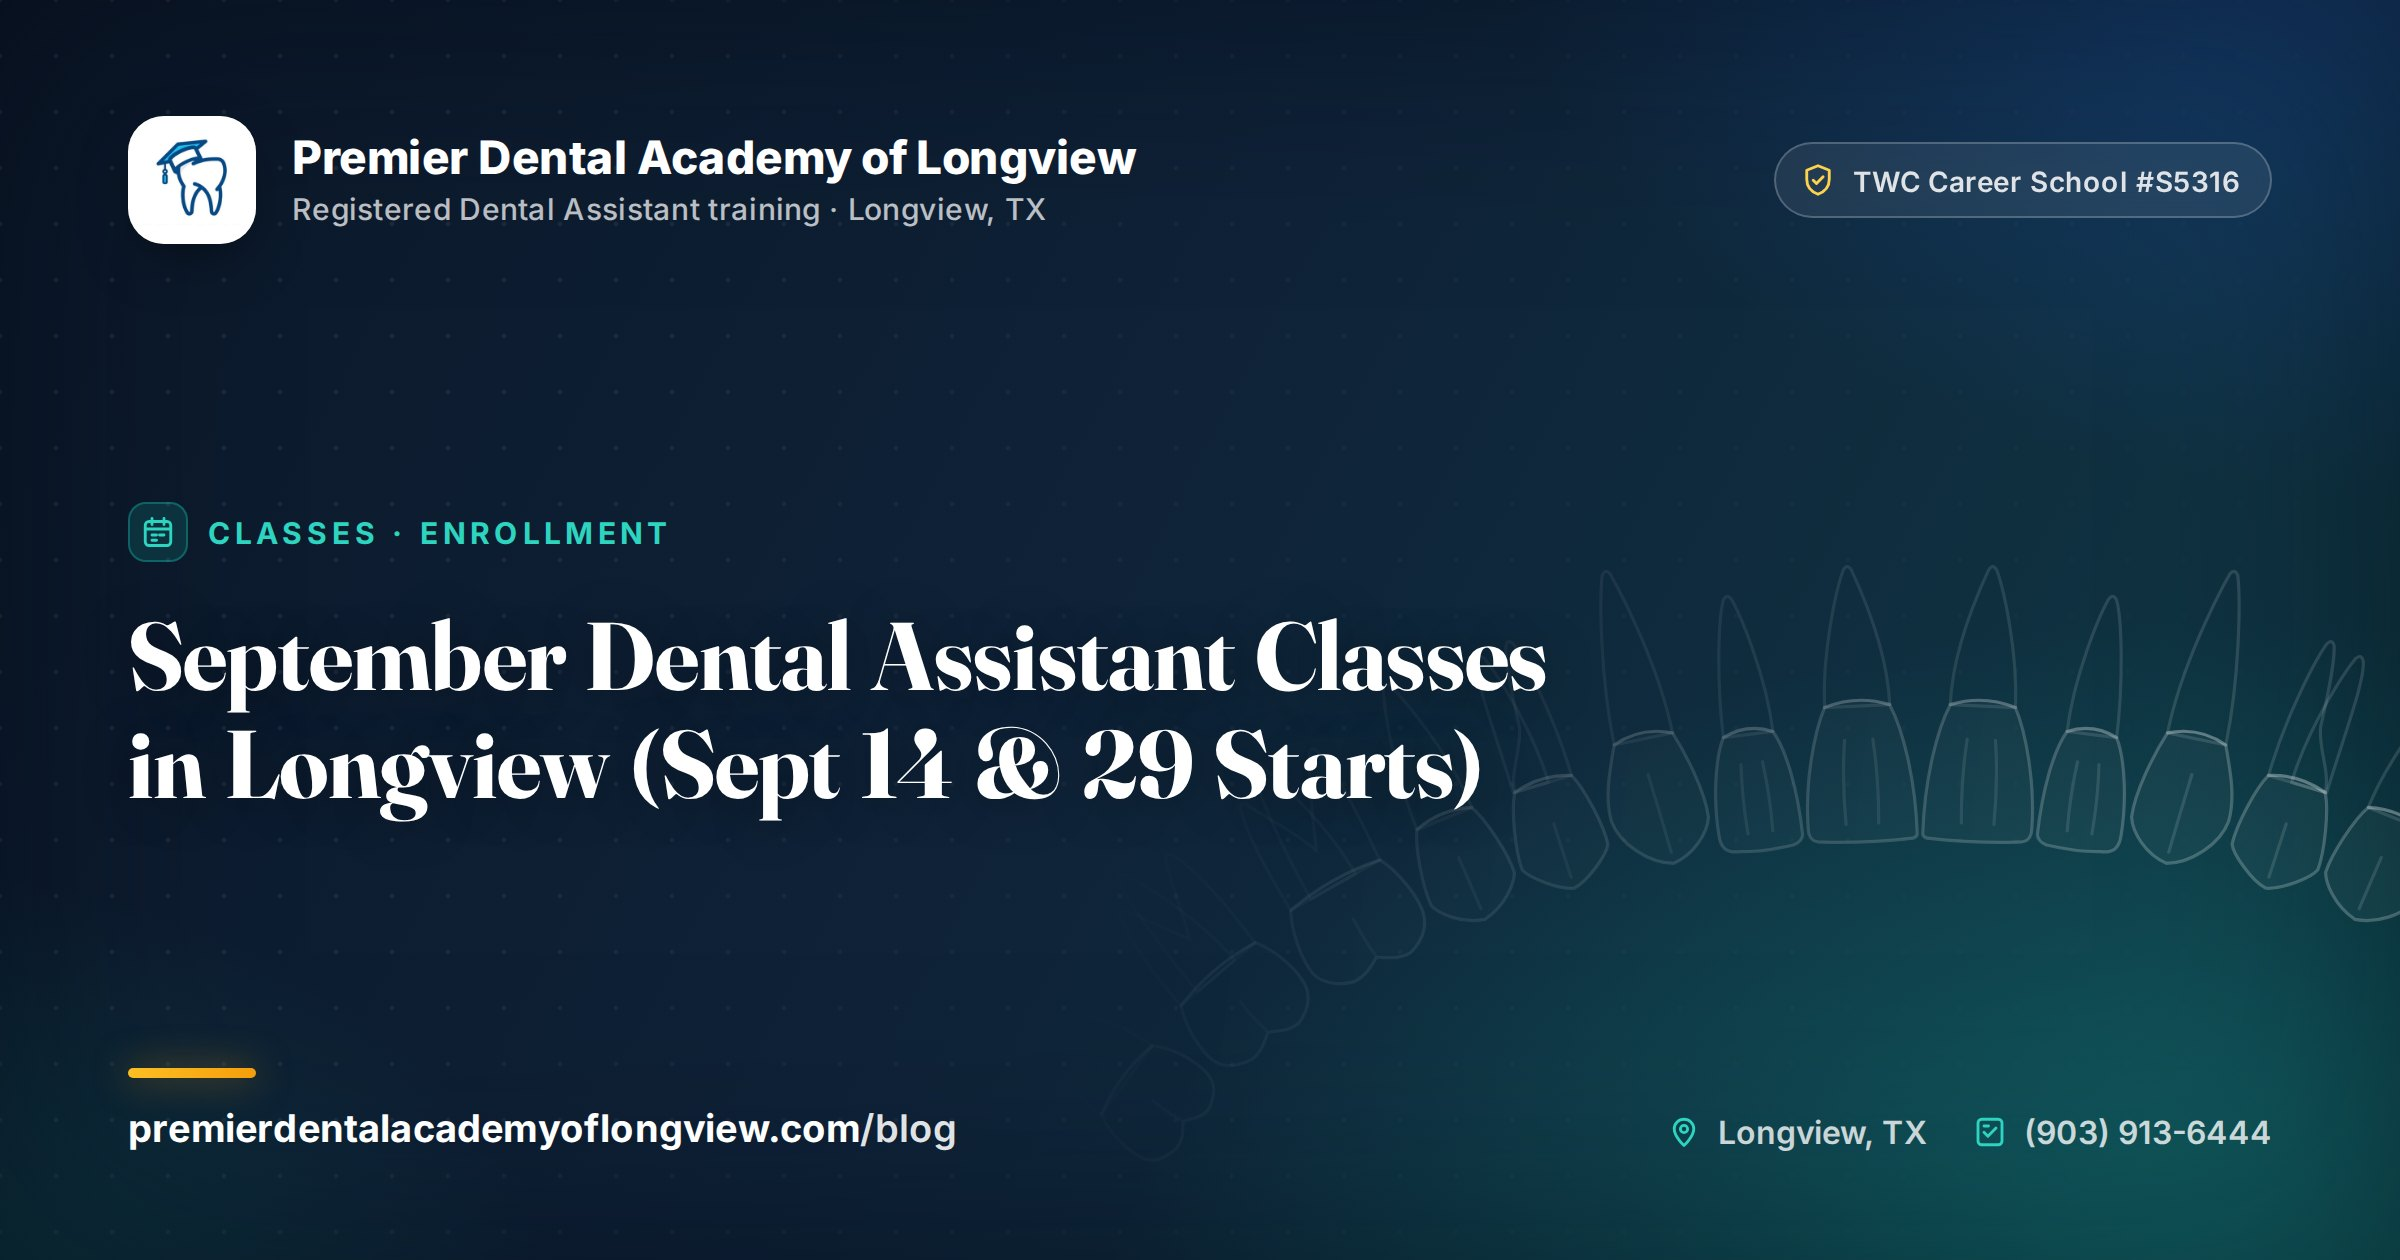
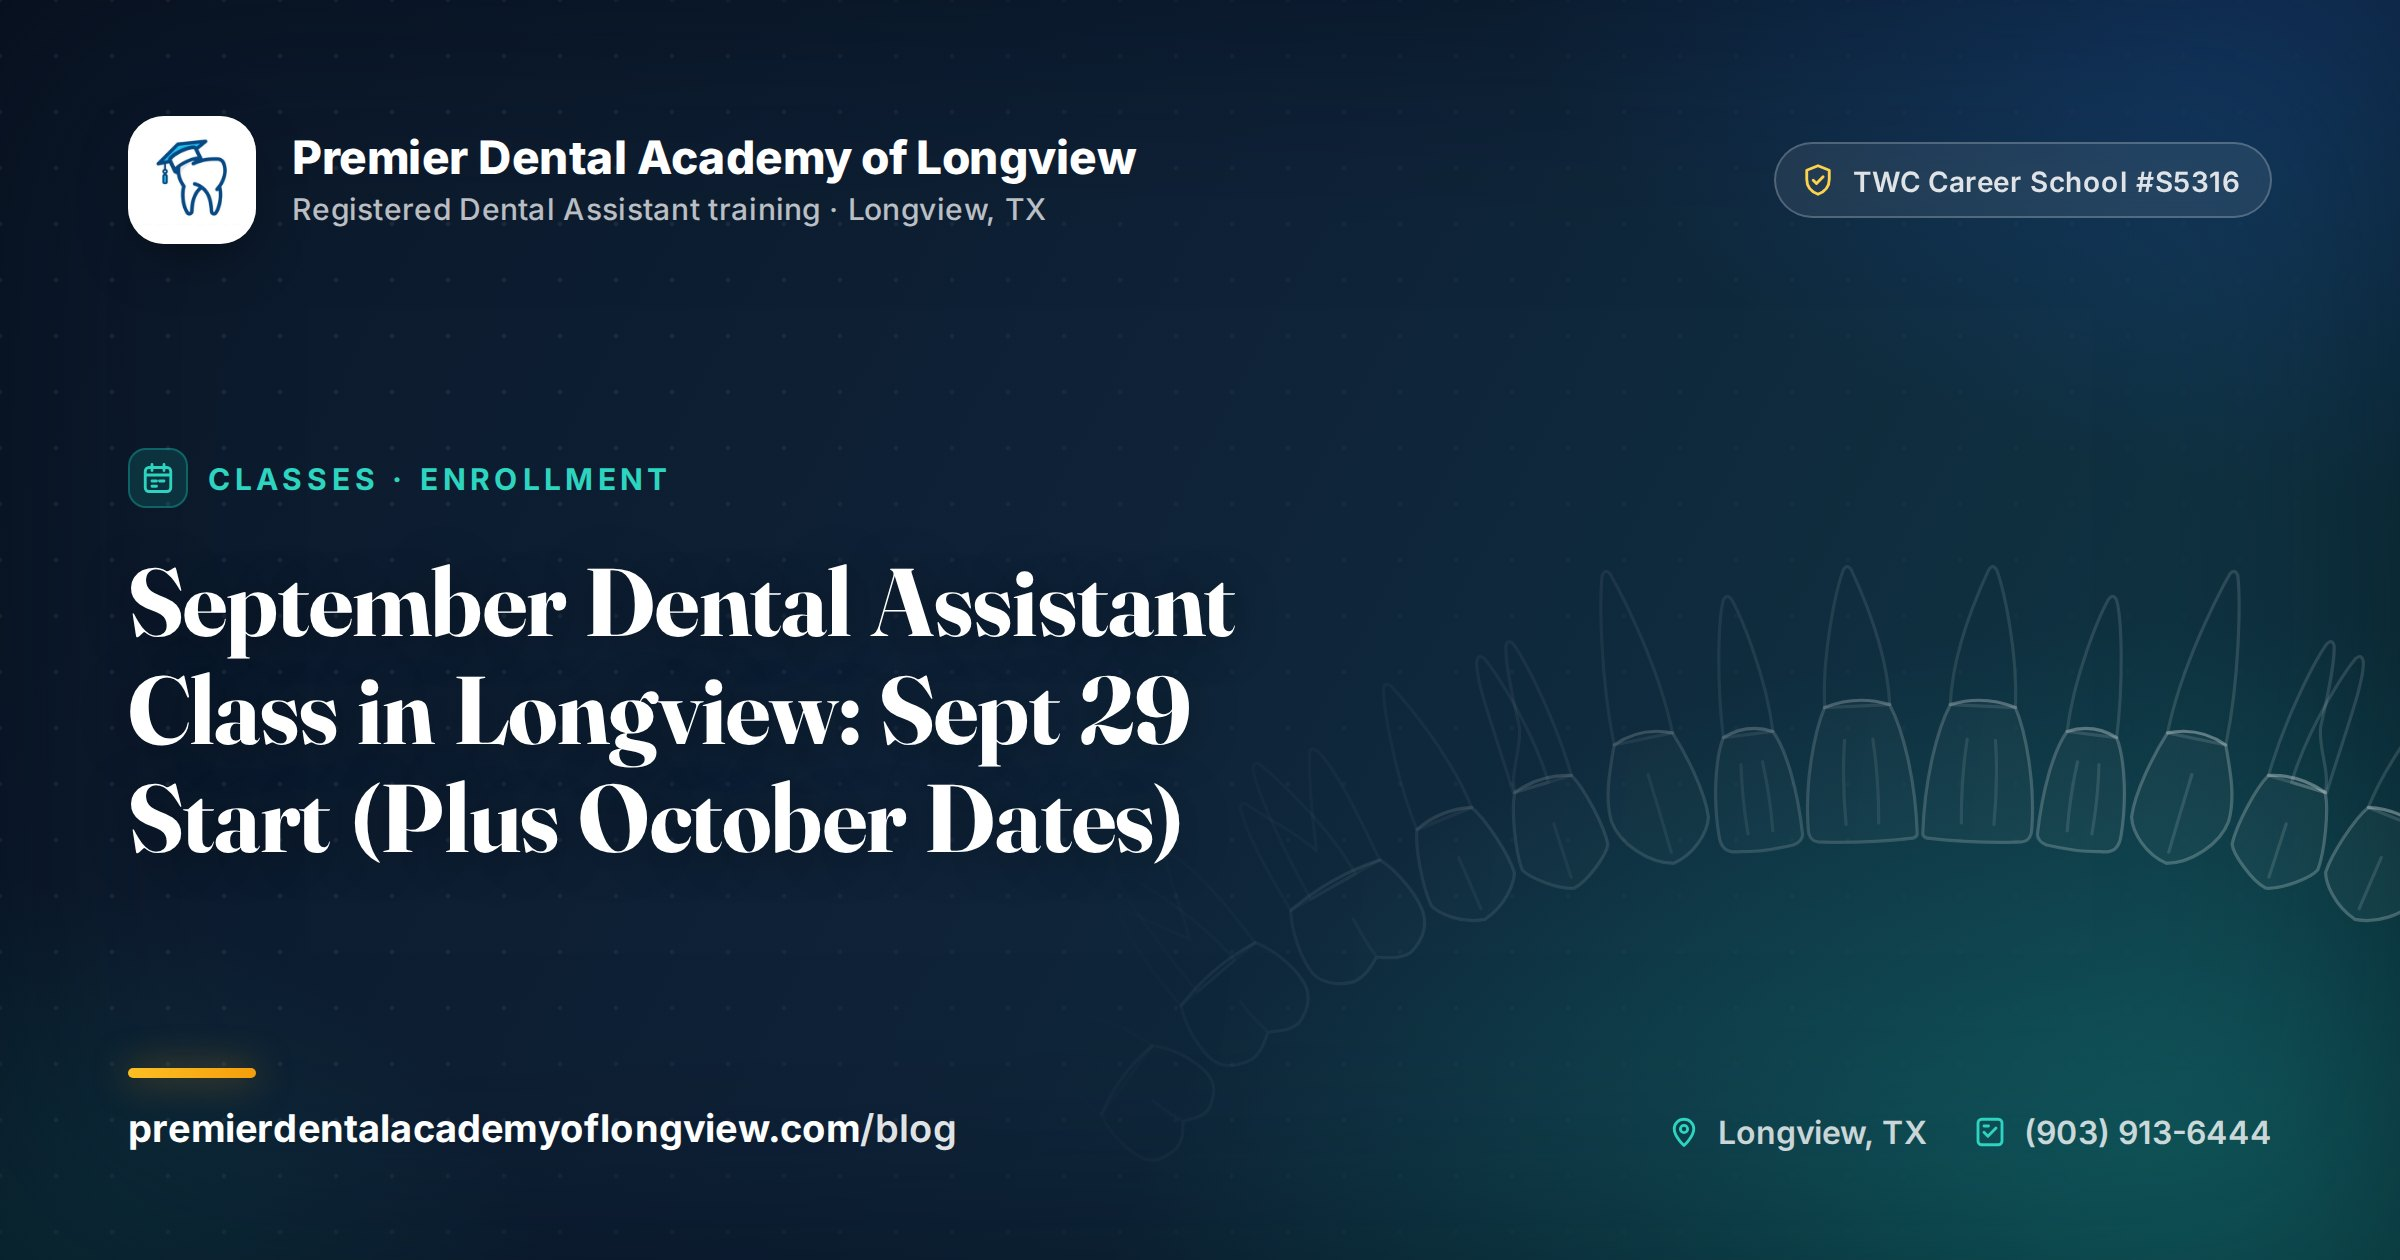
Blog: retitle the September class post around the open Sept 29 start
The September 14 class is in session, so the post, its share metadata,
blog card and social card now lead with the still-open Tuesday, Sept 29
start and the October 5 / October 20 dates behind it. Same URL.

Claude-Session: https://claude.ai/code/session_01UKE28ReqaFHbT8LggmahZb

Changed region(s): [[0.0312, 0.3405, 0.6562, 0.681]]

diff --git a/blog/september-dental-assistant-classes-longview.html b/blog/september-dental-assistant-classes-longview.html
@@ -3,8 +3,8 @@
 <head>
   <meta charset="utf-8" />
   <meta name="viewport" content="width=device-width,initial-scale=1" />
-  <title>September Dental Assistant Classes in Longview (Sept 14 &amp; 29 Starts)</title>
-  <meta name="description" content="Two daytime dental assistant classes start in Longview this September — Sept 14 and Sept 29. See what's included, what it costs, and how to hold one of just 8 seats." />
+  <title>September Dental Assistant Class in Longview: Sept 29 Start (Plus October Dates)</title>
+  <meta name="description" content="The September 14 class is underway. One September start is still open — Tuesday, Sept 29 — with October 5 and October 20 right behind it. See what's included, what it costs, and how to hold one of just 8 seats." />
   <link rel="icon" type="image/png" sizes="32x32" href="/assets/favicon.png" />
   <link rel="icon" type="image/png" sizes="48x48" href="/assets/favicon-48.png" />
   <link rel="apple-touch-icon" href="/assets/apple-touch-icon.png" />
@@ -31,17 +31,17 @@
   <meta property="og:type" content="article" />
   <meta property="og:site_name" content="Premier Dental Academy of Longview" />
   <meta property="og:url" content="https://www.premierdentalacademyoflongview.com/blog/september-dental-assistant-classes-longview" />
-  <meta property="og:title" content="September Dental Assistant Classes in Longview (Sept 14 &amp; 29 Starts)" />
-  <meta property="og:description" content="Two daytime starts this September — Sept 14 and Sept 29. What's included, what it costs, and how to hold a seat." />
+  <meta property="og:title" content="September Dental Assistant Class in Longview: Sept 29 Start (Plus October Dates)" />
+  <meta property="og:description" content="One September start is still open — Tuesday, Sept 29 — with October 5 and October 20 right behind it. What's included, what it costs, and how to hold a seat." />
   <meta property="og:image" content="https://www.premierdentalacademyoflongview.com/assets/og/blog-september-dental-assistant-classes-longview.jpg" />
   <meta property="og:image:width" content="2400" />
   <meta property="og:image:height" content="1260" />
   <meta property="og:image:type" content="image/jpeg" />
   <meta name="twitter:card" content="summary_large_image" />
   <meta name="twitter:title" content="September Dental Assistant Classes in Longview" />
-  <meta name="twitter:description" content="Two daytime starts this September — Sept 14 and Sept 29. Just 8 seats each." />
+  <meta name="twitter:description" content="One September start still open — Sept 29 — with Oct 5 and Oct 20 right behind it. Just 8 seats each." />
   <meta name="twitter:image" content="https://www.premierdentalacademyoflongview.com/assets/og/blog-september-dental-assistant-classes-longview.jpg" />
-  <script type="application/ld+json">{"@context":"https://schema.org","@type":"BlogPosting","headline":"September Dental Assistant Classes in Longview (Sept 14 & 29 Starts)","description":"Two daytime starts this September — Sept 14 and Sept 29. What's included, what it costs, and how to hold a seat.","datePublished":"2026-07-12","dateModified":"2026-07-12","author":{"@type":"Organization","name":"Premier Dental Academy of Longview","url":"https://www.premierdentalacademyoflongview.com"},"publisher":{"@type":"Organization","name":"Premier Dental Academy of Longview","logo":{"@type":"ImageObject","url":"https://www.premierdentalacademyoflongview.com/assets/logo-mark.png"}},"image":"https://www.premierdentalacademyoflongview.com/assets/og/blog-september-dental-assistant-classes-longview.jpg","mainEntityOfPage":"https://www.premierdentalacademyoflongview.com/blog/september-dental-assistant-classes-longview"}</script>
+  <script type="application/ld+json">{"@context":"https://schema.org","@type":"BlogPosting","headline":"September Dental Assistant Class in Longview: Sept 29 Start (Plus October Dates)","description":"One September start is still open — Tuesday, Sept 29 — with October 5 and October 20 right behind it. What's included, what it costs, and how to hold a seat.","datePublished":"2026-07-12","dateModified":"2026-07-12","author":{"@type":"Organization","name":"Premier Dental Academy of Longview","url":"https://www.premierdentalacademyoflongview.com"},"publisher":{"@type":"Organization","name":"Premier Dental Academy of Longview","logo":{"@type":"ImageObject","url":"https://www.premierdentalacademyoflongview.com/assets/logo-mark.png"}},"image":"https://www.premierdentalacademyoflongview.com/assets/og/blog-september-dental-assistant-classes-longview.jpg","mainEntityOfPage":"https://www.premierdentalacademyoflongview.com/blog/september-dental-assistant-classes-longview"}</script>
 </head>
 <body class="bg-white">
 
@@ -63,19 +63,19 @@
 
 <main class="max-w-3xl mx-auto px-4 sm:px-6 py-10 sm:py-14">
   <p class="text-xs uppercase tracking-widest text-teal-700 font-semibold">Classes · Enrollment</p>
-  <h1 class="display text-3xl sm:text-4xl font-bold mt-2 leading-tight">September dental assistant classes in Longview: Sept 14 &amp; 29 starts</h1>
-  <p class="text-slate-500 mt-3 text-lg">If summer got away from you, September is a fresh, clean place to begin. We have two daytime dental assistant cohorts starting in Longview this fall — one on <strong>September 14</strong> and one on <strong>September 29</strong> — and you can train on campus or fully online. Here's exactly what to expect and how to hold your seat.</p>
+  <h1 class="display text-3xl sm:text-4xl font-bold mt-2 leading-tight">September dental assistant class in Longview: Sept 29 start (plus October dates)</h1>
+  <p class="text-slate-500 mt-3 text-lg">If summer got away from you, September is a fresh, clean place to begin. The September 14 class is now in session, but one September start is still open — <strong>Tuesday, September 29</strong> — with <strong>October 5</strong> (Mon/Wed/Fri) and <strong>October 20</strong> (Tue/Thu) right behind it, and you can train on campus or fully online. Here's exactly what to expect and how to hold your seat.</p>
 
   <div class="grid grid-cols-3 gap-3 mt-8 not-prose">
-    <div class="bg-teal-50 border border-teal-100 rounded-xl p-4 text-center"><div class="display text-2xl font-bold text-teal-700">2</div><div class="text-xs text-slate-600 mt-1">September starts (Sept 14 &amp; 29)</div></div>
+    <div class="bg-teal-50 border border-teal-100 rounded-xl p-4 text-center"><div class="display text-2xl font-bold text-teal-700">3</div><div class="text-xs text-slate-600 mt-1">open starts (Sept 29, Oct 5, Oct 20)</div></div>
     <div class="bg-amber-50 border border-amber-100 rounded-xl p-4 text-center"><div class="display text-2xl font-bold text-amber-600">8</div><div class="text-xs text-slate-600 mt-1">seats per class — that's the cap</div></div>
     <div class="bg-cyan-50 border border-cyan-100 rounded-xl p-4 text-center"><div class="display text-2xl font-bold text-cyan-700">~12</div><div class="text-xs text-slate-600 mt-1">weeks from day one to finished</div></div>
   </div>
 
   <div class="prose max-w-none mt-8">
     <h2 class="display text-2xl font-bold mt-8">Two September starts, two chances to begin</h2>
-    <p>You don't have to wait for a new year to change your life. Our fall calendar has back-to-back openings: a cohort that starts <strong>Monday, September 14</strong> and a second one that starts <strong>Tuesday, September 29</strong>. Pick whichever lines up with your notice period at a current job, your childcare, or just the date that feels right. Both cover the same curriculum, the same hands-on training, and finish in about twelve weeks.</p>
-    <p>Two starts a few weeks apart also means flexibility. If September 14 sneaks up too fast, September 29 gives you a little more runway to save, arrange a schedule, or start the funding paperwork — without pushing you all the way to November.</p>
+    <p>You don't have to wait for a new year to change your life. Our fall calendar has back-to-back openings: a cohort that starts <strong>Tuesday, September 29</strong> and a second one that starts <strong>Monday, October 5</strong>. Pick whichever lines up with your notice period at a current job, your childcare, or just the date that feels right. Both cover the same curriculum, the same hands-on training, and finish in about twelve weeks.</p>
+    <p>Two starts a few weeks apart also means flexibility. If September 29 sneaks up too fast, October 5 or October 20 gives you a little more runway to save, arrange a schedule, or start the funding paperwork — without pushing you all the way to November.</p>
 
     <h2 class="display text-2xl font-bold mt-10">On campus in Longview, or online from home</h2>
     <p>Both September cohorts run in two formats. <strong>In-person</strong> meets at our Longview campus at 2800 Gilmer Rd, Suite 106 — live, hands-on training with the instruments and workflows you'll use in a real operatory. <strong>Online</strong> covers the same curriculum from home, at a pace that fits around work and family. A lot of students start online to test the waters and then move to in-person; if you do, your online tuition transfers as full credit.</p>
@@ -100,7 +100,7 @@
     <p>Whichever start you choose, tuition covers the whole path — not a stripped-down "intro" with everything important sold separately. You get live instruction on the Longview campus (or the same curriculum fully online), full access to our Practice Pro and ChairSide trainers, infection-control and radiology training, a PDA Certificate of Completion when you finish, and job-placement help with East Texas offices when you're ready to interview. No surprise fees to "unlock" the parts that actually matter, and everything you practice is built to mirror a real operatory.</p>
 
     <h2 class="display text-2xl font-bold mt-10">Get ready for September (tap to check off)</h2>
-    <p>You don't need to do all of this today. But if you're aiming at September 14 or 29, here's the short list that gets you to day one without a scramble:</p>
+    <p>You don't need to do all of this today. But if you're aiming at September 29 or an October start, here's the short list that gets you to day one without a scramble:</p>
     <div class="not-prose">
       <div id="prog-wrap" class="mb-3">
         <div class="flex justify-between text-xs text-slate-500 mb-1"><span>Your progress</span><span id="prog-txt">0 of 6</span></div>

diff --git a/blog.html b/blog.html
@@ -1897,8 +1897,8 @@
         <div class="h-28 bg-gradient-to-br from-emerald-100 to-teal-100 flex items-center justify-center text-5xl">📅</div>
         <div class="p-6 flex flex-col flex-1">
           <span class="text-xs uppercase tracking-widest text-teal-700 font-semibold">Classes · Enrollment</span>
-          <h3 class="display text-lg font-bold mt-2">September Dental Assistant Classes in Longview (Sept 14 &amp; 29 Starts)</h3>
-          <p class="text-slate-600 text-sm mt-2 leading-relaxed flex-1">Two daytime starts this fall — September 14 and 29, in Longview or online. What's included, what it costs, and a tap-to-check-off seat checklist.</p>
+          <h3 class="display text-lg font-bold mt-2">September Dental Assistant Class in Longview: Sept 29 Start (Plus October Dates)</h3>
+          <p class="text-slate-600 text-sm mt-2 leading-relaxed flex-1">One September start still open — Sept 29 — with October 5 and 20 right behind it, in Longview or online. What's included, what it costs, and a tap-to-check-off seat checklist.</p>
           <div class="mt-4 flex items-center justify-between"><span class="text-teal-700 font-semibold text-sm">Read →</span><span class="text-xs text-slate-400">Jul 12, 2026</span></div>
         </div>
       </a>

diff --git a/CHANGELOG.md b/CHANGELOG.md
@@ -1,4 +1,5 @@
 # Changelog — one line per push (newest first)
+- 2026-09-17 · September class post retitled around the open date: "September Dental Assistant Class in Longview: Sept 29 Start (Plus October Dates)" (same URL). Intro, stat tile, description, share metadata and blog card now say the Sept 14 class is in session and Sept 29 / Oct 5 / Oct 20 are open; card re-rendered.
 - 2026-09-17 · Stale class dates refreshed: the September 14 class has started, so 96 blog posts + the homepage fallback still calling it an upcoming start now list the next confirmed dates (Sept 29 T/Th, Oct 5 MWF, Oct 20 T/Th, Nov 9 MWF, Nov 17 T/Th, per site-facts/cohorts). Tour-CTA date grids rebuilt in date order; prose swapped date-for-date with no new claims; the dated August/September class-announcement posts and the expired Labor Day copy left as historical. check:dates green again; npm test clean.
 - 2026-09-17 · Tool/landing-page share cards moved onto the same generator (`npm run og`, PAGES table in scripts/generate-og.mjs → assets/og/page-<key>.jpg): /salary, /tools/practice-exam + /go/rda-practice-exam, /skills-lab, /enroll, /tools/share-your-win (old card showed an invented student name — gone), /tools/tuition-planner, /sponsor-a-student, /employers/request-graduate. Headlines are each page's own title wording; chips repeat only site-facts pricing/plan facts or the page's own copy; the unverified "no placement fee" line was dropped from the request-graduate image alt. Nine old og-*.png/jpg files deleted (incl. the unreferenced salary card with a stock-style person). og:image width/height/type set on all nine pages. npm test clean.
 - 2026-09-09 · Social-preview (OG) cards redesigned: every blog post (242) and the site-wide cover now share one branded 2400×1260 card (Fraunces headline in the post's own og:title, Inter, navy→teal palette, logo mark, per-category accent + icon, the anatomical arch from assets/tooth-shapes.js as line art, TWC #S5316, Longview + phone from site-facts). New scripts/generate-og.mjs (`npm run og`, Playwright, fonts vendored in scripts/og-fonts) replaces the flat teal PNGs; 107 posts that fell back to the generic cover now get their own card; og:image:width/height/type added to every post; build_blog_batch.py renders the card for new posts; all og-cover.png references → og-cover.jpg. npm test clean.
